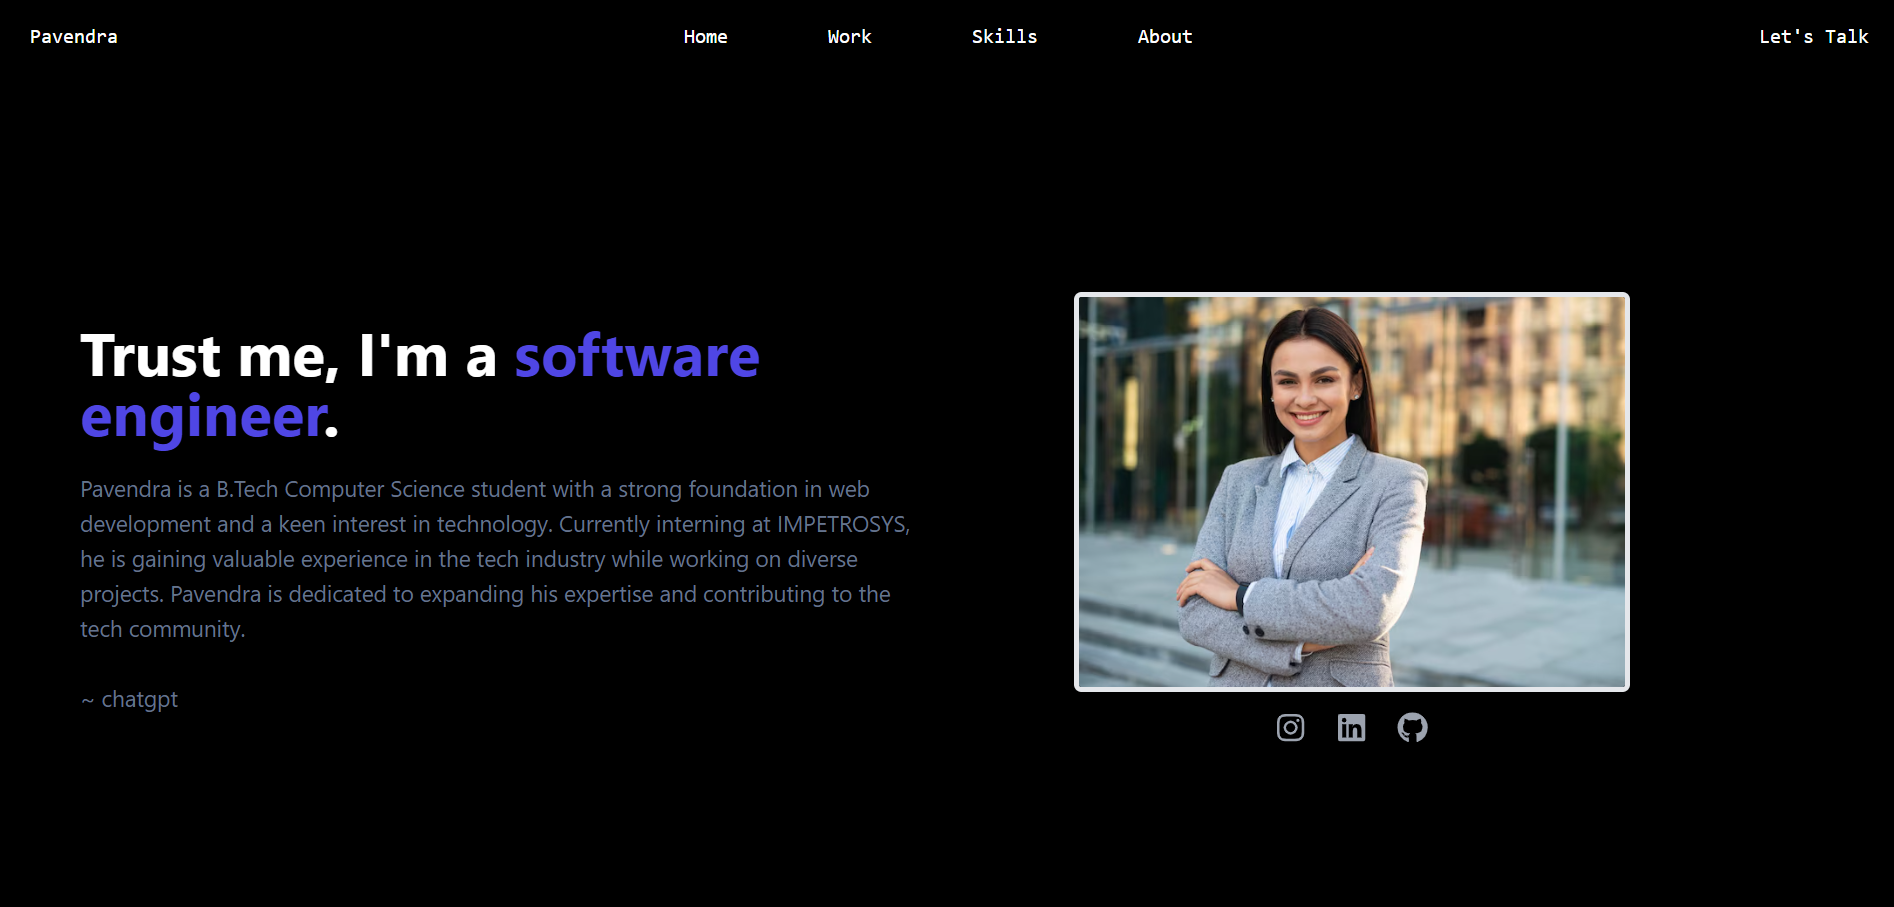
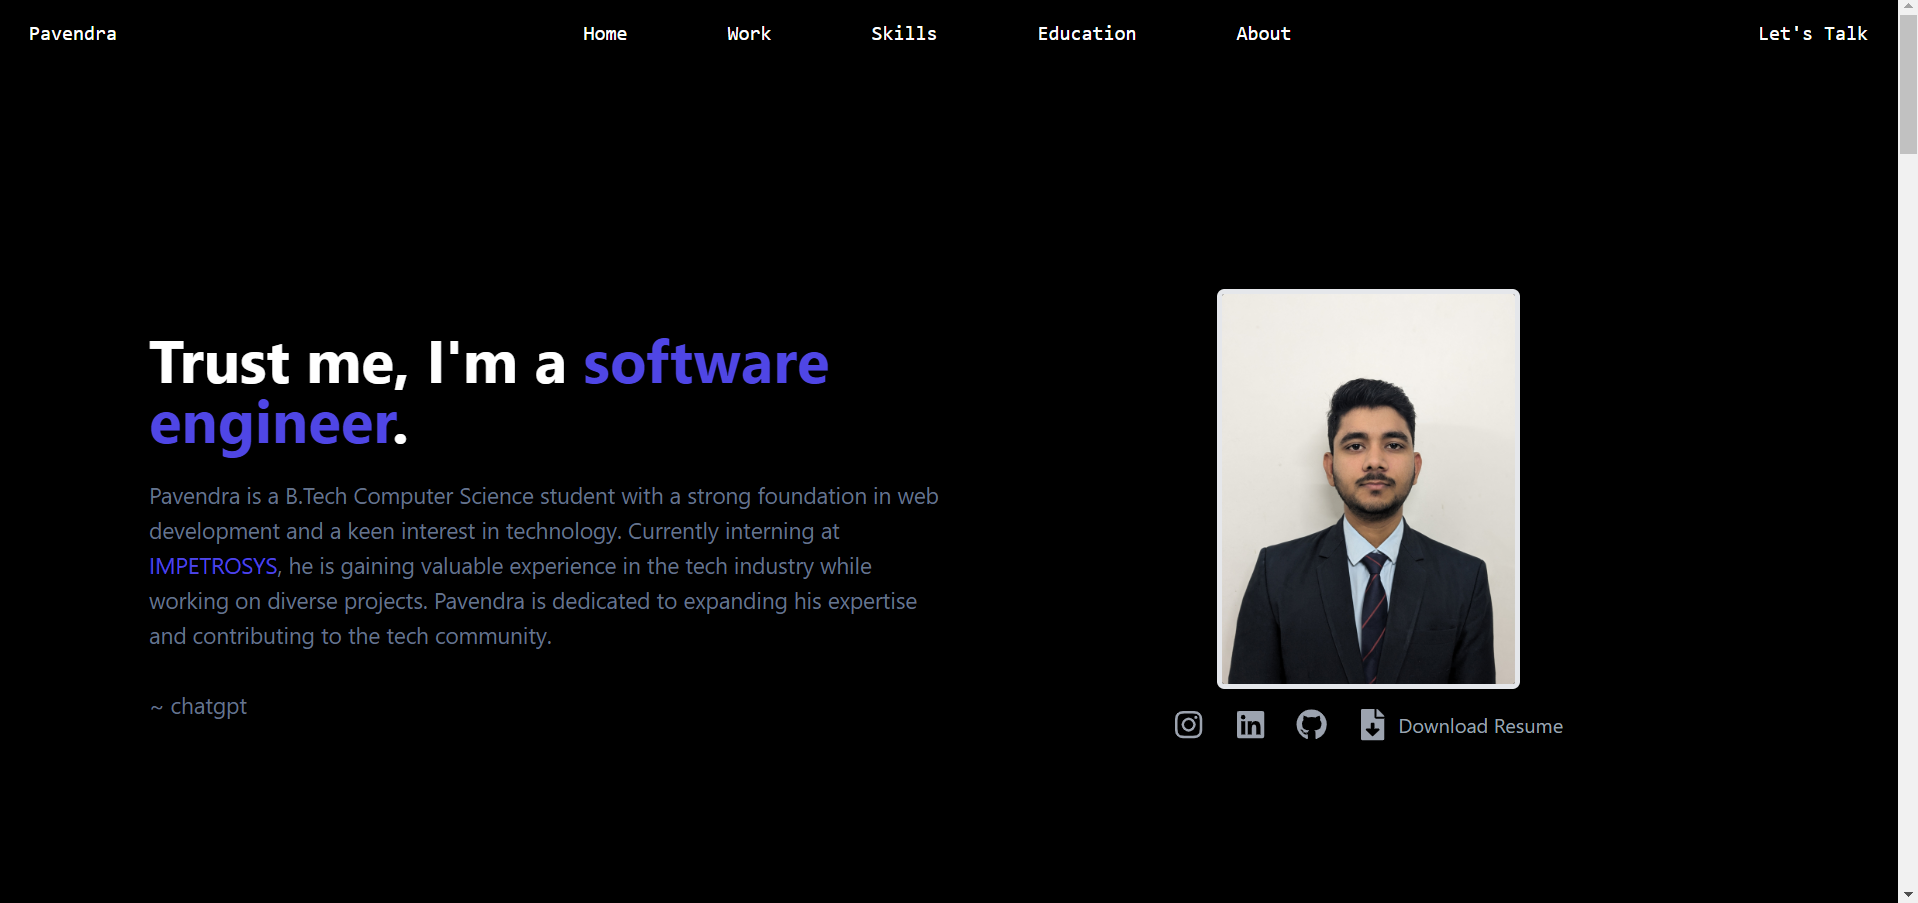
added project

diff --git a/app/src/Components/Work.jsx b/app/src/Components/Work.jsx
@@ -1,6 +1,7 @@
 import React from 'react';
 import image from '../Images/Image21.png'
 import image2 from '../Images/image22.png'
+import image3 from '../Images/image4.png'
 
 const projects = [
   {
@@ -8,31 +9,31 @@ const projects = [
     description: 'A full-stack MERN app for sharing and discovering recipes.',
     image:  image, // Replace with your project image
     techStack: ['HTML','CSS','React', 'Node.js', 'MongoDB', 'Express'],
-    liveLink: '#', // Add your live project link
+    liveLink: 'https://recipe-chi-seven.vercel.app/', // Add your live project link
     githubLink: 'https://github.com/Pavendra21/Recipe.git', // Add your GitHub repo link
   },
   {
     title: 'Portfolio Website',
     description: 'A personal portfolio website to showcase my projects and skills.',
     image:  image2 ,
-    techStack: ['HTML','CSS','React', 'Tailwind CSS'],
-    liveLink: '#',
-    githubLink: '#',
+    techStack: ['HTML','CSS','React', 'Tailwind CSS'    ],
+    liveLink: 'https://personal-portfolio-react-website.vercel.app/',
+    githubLink: 'https://github.com/Pavendra21/personal-portfolio-react-website',
   },
   {
     title: 'Portfolio Website',
-    description: 'A personal portfolio website to showcase my projects and skills.',
-    image: 'https://via.placeholder.com/300',
-    techStack: ['React', 'Tailwind CSS'],
-    liveLink: '#',
-    githubLink: '#',
+    description: 'A E-Commerce website to Purchase elctronic items , with complete Login SignUp Validation',
+    image: image3 ,
+    techStack: ['HTML','CSS','Tailwand CSS','React', 'Node.js', 'MongoDB', 'Express', 'Redux', "JSON Web Token"],
+    liveLink: 'https://shoplinee.onrender.com/',
+    githubLink: 'https://github.com/Pavendra21/E-commerce-MERN-stack',
   },
 ];
 
 const Work = () => {
   return (
     <>
-      <h2 id='Work' className="text-4xl font-bold text-center font-mono mt-20 mb-20">My Work</h2>
+      <h2 id='Work' className="text-4xl font-bold text-center font-mono mt-20 mb-20">Projects</h2>
       <section  className="py-12 px-12 text-white">
         <div className="max-w-screen-xl mx-auto grid grid-cols-1 md:grid-cols-2 lg:grid-cols-3 gap-8 justify-center">
           {projects.map((project, index) => (

diff --git a/app/src/Components/Landing_page.jsx b/app/src/Components/Landing_page.jsx
@@ -4,6 +4,8 @@ import Work from './Work';
 import Skills from './Skills';
 import resume from '../Resume/pavendra_resume.pdf';
 import Education from './Education';
+// import image from '../Images/image25.jpg';
+import image2 from '../Images/image.jpg';
 
 const LandingPage = () => {
   return (
@@ -24,7 +26,7 @@ const LandingPage = () => {
       {/* Photo Section */}
       <div className="flex-1 md:w-1/2 p-4 mb-6 md:mr-16 ml-auto">
         <img
-          src="https://writestylesonline.com/wp-content/uploads/2018/11/Three-Statistics-That-Will-Make-You-Rethink-Your-Professional-Profile-Picture-1024x1024.jpg" // Replace with your image URL
+          src= {image2} // Replace with your image URL
           alt="Landing"
           className="object-cover h-80 w-90 border-4 rounded-md mx-auto md:ml-auto"
         />
